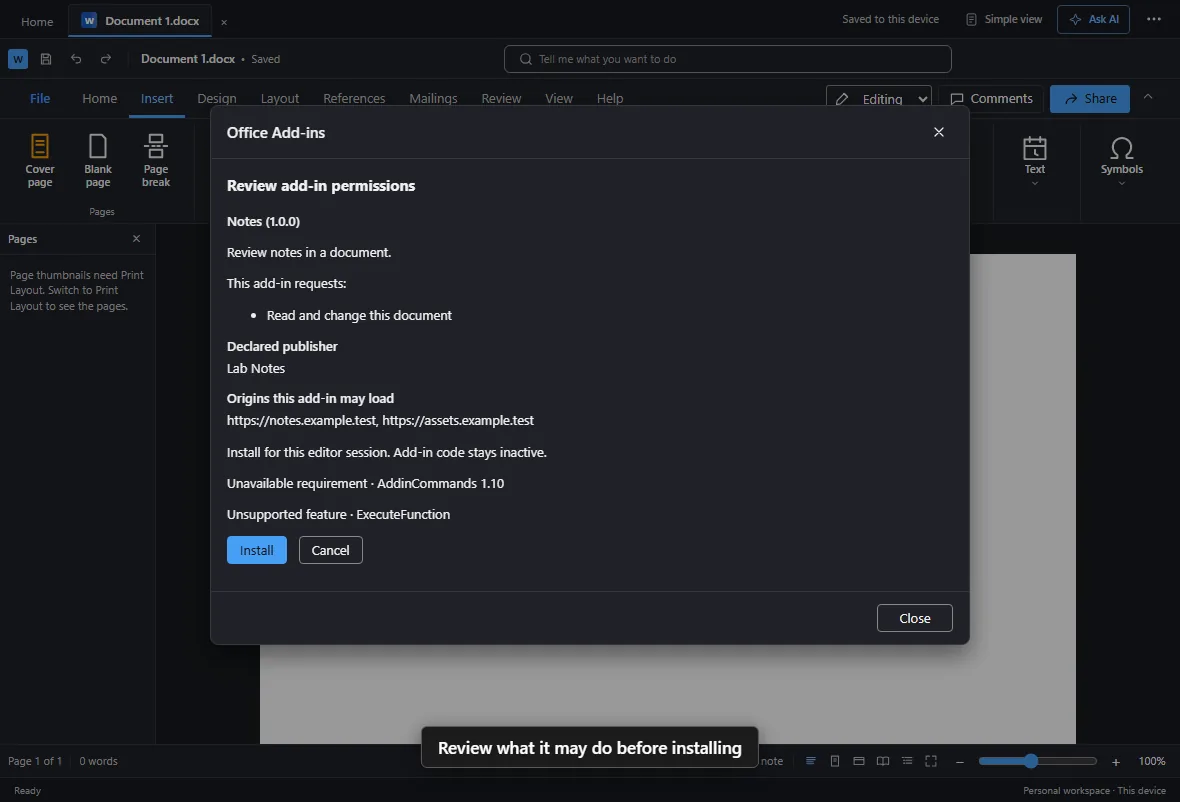
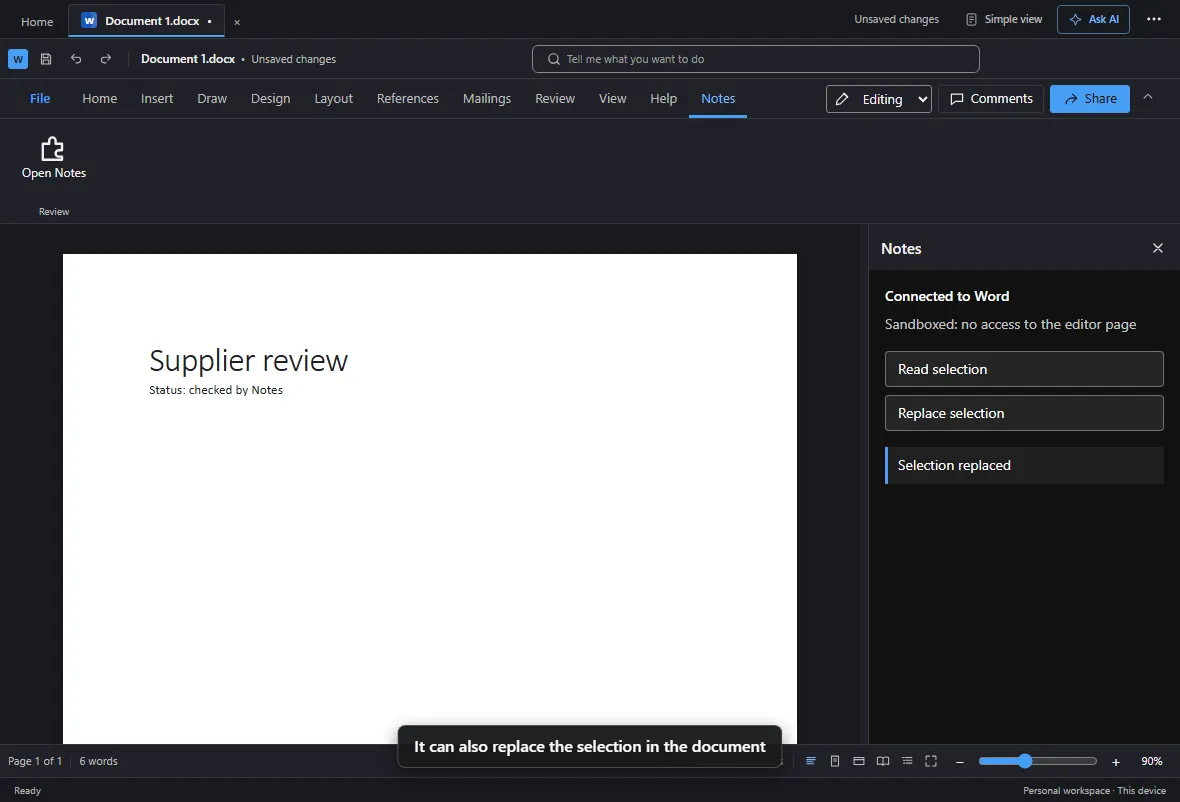
docs: describe add-in installs and task panes in the 2.5 post
The add-ins slice is on the branch, so the entry is written from the
code and its placeholder comment is gone: installing an XML manifest, a
unified manifest or a package after a consent step, installs kept for
each profile, task panes in sandboxed frames behind
setOfficeAddInRuntime and a frame-src policy, the compatible client
with its text selection calls, and Marketplace links resolved only by a
host's own resolver. "Not yet" says plainly that a page loading
Microsoft's hosted Office.js does not run. Security, the API list, the
open items and the change lists follow, with reproducible saves, the
dropped xml-crypto peer and Visio's arrowheads from the same merge.

The recording is new: a test add-in installed in the suite, then its
ribbon command opening a task pane that reads and replaces the
selection. The suite ships with the runtime off, so the recording turns
it on and its caption says so.

Two "Not yet" lines that were never gaps of ours are now plain notes:
PowerPoint's own handling of Ink Replay timing, and the desktop app
leaving the samples out to keep its installer small.

diff --git a/docs/releases/2.5.md b/docs/releases/2.5.md
@@ -56,7 +56,7 @@ Learn more about [the Word mail merge API](https://github.com/ChristopherVR/ooxm
 
 The **Design** tab applies a theme, its colours, fonts, effects and paragraph spacing to the whole document in one undo step, imports and exports `.thmx` themes, keeps custom colour and font schemes, and **Set as Default** stores your choice for new documents. The suite keeps that default per profile; turn off **Remember my Word design** in Settings > General to stop it. **Create a Style** and **Modify Style** edit paragraph, character, linked and table styles, and Word 16 opens the saved files without repair.
 
-![Word applies a theme, a colour scheme and paragraph spacing from the Design tab to the whole document](2.5/assets/word-design.gif)
+![Word applies the Berlin theme, the Green colour scheme and Relaxed paragraph spacing from the Design tab to the whole document](2.5/assets/word-design.gif)
 
 _A theme, a colour scheme and paragraph spacing applied to the whole document._
 
@@ -185,7 +185,7 @@ _Ink drawn, replayed and converted to a shape._
 
 Ink brushes are now written with their width in centimetres, so ink a deck saves keeps its colour and thickness in PowerPoint, Word and Excel.
 
-**Not yet:** PowerPoint desktop drops Ink Replay's per-point timing when it saves the file again.
+One thing to know about round trips: Microsoft PowerPoint does not keep Ink Replay's per-point timing when it saves a deck again. That is PowerPoint's own behaviour, so ink replayed here from such a file plays stroke by stroke.
 
 Learn more about [Ink to Math and privacy](https://github.com/ChristopherVR/ooxml/blob/main/PRIVACY.md#ink-to-math).
 
@@ -247,34 +247,35 @@ _From the gallery to the financial model, open in the suite._
 
 Opening a sample is a link, `?sample=<id>`, that you can use yourself: the suite fetches the manifest and that one file from its own site, checks the file's size and SHA-256 against the manifest, adds a copy to your library and opens it. Every sample is written by a script in the repository, so it can be rebuilt and reviewed as source.
 
-**Not yet:** The samples show the gaps too. A load notice lists what a file contains that its editor does not draw or edit yet, and the desktop app does not bundle the samples.
+The samples show the gaps too: a load notice lists what a file contains that its editor does not draw or edit yet. The desktop app leaves the samples out on purpose, so its installer does not grow by them.
 
 Learn more about [the sample files](https://github.com/ChristopherVR/ooxml/blob/main/samples/README.md).
 
 ### Add-ins
 
-<!-- TODO(add-ins): the wave 6 add-ins slice (manual install of AppSource manifests and sandboxed
-task panes) is not in this tree yet. When it lands, describe it here from the code, replace
-office-add-ins.gif with a recording of an installed add-in's task pane, and update "Not yet",
-"Security", "What is still open" and the migration guide's Store section. -->
+**Insert > Get Add-ins** opens one Office Add-ins dialog in Word, Excel, PowerPoint and Visio, so a host configures add-ins once. In Word, Excel and PowerPoint, **Upload My Add-in** installs an add-in-only XML manifest, a unified `manifest.json` or a `.zip` app package. The file is checked against size, compression and path limits, and the dialog shows the publisher, version, origins and permissions it declares before you consent. Nothing is fetched from the origins a manifest names while it is installed.
 
-**Insert > Get Add-ins** opens one Office Add-ins dialog in Word, Excel, PowerPoint and Visio, so a host configures add-ins once. My Add-ins lists what is installed, Admin Managed lists entries your host provides, and in Word, Excel and PowerPoint **Upload My Add-in** reads an XML manifest, a unified `manifest.json` or a `.zip` package, checks it against size, compression and path limits, and shows the permissions it requests before you install it for the session. Nothing is fetched from the origins a manifest names.
+![Word installs a local add-in from a manifest after a consent step, then its ribbon command opens a sandboxed task pane that reads and replaces the selected text](2.5/assets/office-add-ins.gif)
 
-![Word opens Get Add-ins, uploads a local XML manifest, reviews its permissions and installs it](2.5/assets/office-add-ins.gif)
+_A test add-in installed with consent, then running in a sandboxed task pane. The recording turns the runtime on; the suite ships with it off._
 
-_A local manifest uploaded, reviewed and installed._
+Installed add-ins stay. **My Add-ins** lists them, shows their details and removes them, and the suite keeps each manifest or package in a store that belongs to the profile, so an add-in's ribbon commands are back after a reload or a change of profile. Each editor checks the saved files again before it restores them. An application that embeds the editors gets session memory unless it passes a store of its own.
 
-The Store pivot appears only when your host enables a storefront: a handoff to Microsoft Marketplace or a catalogue of its own. Until then Get Add-ins opens on My Add-ins, and the editors make no request to a marketplace. A handoff opens only when the user clicks it, in a new tab with no opener and no referrer, and sends no document data.
+An installed add-in's task pane runs once your application turns the runtime on. `setOfficeAddInRuntime` names the publisher origins you approve and asserts that your page's Content Security Policy enforces `frame-src` for them; the add-in's ribbon command then opens its pane in a sandboxed frame beside the document. The pane talks to the editor through a compatible client, `connectOfficeAddIn`, which offers `Office.onReady`, the host name and the text selection calls `getSelectedDataAsync` and `setSelectedDataAsync`: Word reads and replaces the selected text, Excel one selected cell. Running add-ins is off by default.
 
 **addins.ts**
 
 ```ts
-import { setOfficeAddInCatalog, setOfficeAddInStorefront } from 'ooxml-ui';
+import { setOfficeAddInRuntime, setOfficeAddInStorefront } from 'ooxml-ui';
 
 const editor = document.querySelector('docx-editor')!;
 
-// Add-ins your application already implements, listed under Admin Managed.
-setOfficeAddInCatalog(editor, [{ id: 'notes', label: 'Team notes', install: () => openNotes() }]);
+// Run installed task panes from the origins you approve. Say frameSrcEnforced only once your
+// page's Content-Security-Policy frame-src admits these origins and no others.
+setOfficeAddInRuntime(editor, {
+	origins: ['https://addins.example.com'],
+	frameSrcEnforced: true,
+});
 
 // Opt in to the Store pivot. Leave this out to keep it hidden.
 setOfficeAddInStorefront(editor, { kind: 'microsoft' });
@@ -282,7 +283,9 @@ setOfficeAddInStorefront(editor, { kind: 'microsoft' });
 
 _The settings apply to one editor or to every editor inside a container._
 
-**Not yet:** Installing is not running. The Office.js runtime and manifest-defined ribbon commands are not implemented, so an installed add-in is listed with the requirements it cannot meet. Visio lists host-provided add-ins but cannot install local manifests.
+The Store pivot appears only when your host links a marketplace: a handoff to Microsoft Marketplace or a catalogue of its own. A host can also register a resolver, `setOfficeAddInMarketplaceResolver`, that turns a Marketplace link or asset id into a package through its own backend; the editors never fetch one themselves. A handoff opens only when the user clicks it, in a new tab with no opener and no referrer, and sends no document data.
+
+**Not yet:** An add-in whose page loads Microsoft's hosted Office.js does not run here: the bridge is the compatible client, with the Selection and TextCoercion 1.1 requirement sets only. Function commands, commands on the built-in tabs, a selection bridge for PowerPoint, content add-ins, identity and single sign-on are open, and Visio cannot install local manifests.
 
 Learn more about [the Office Add-ins plan](https://github.com/ChristopherVR/ooxml/blob/main/docs/office-addins-plan.md).
 
@@ -331,14 +334,14 @@ The Excel download figures are the suite's gzipped route sizes before and after 
 
 ## Security
 
-- **Add-in packages:** manifests and `.zip` packages are checked for size, compression ratio and paths before they are read, schema and asset URLs never cause a request, and installing needs consent.
+- **Add-ins:** manifests and `.zip` packages are checked for size, compression ratio and paths before they are read, schema and asset URLs never cause a request, and installing needs consent. A task pane runs only from an origin the host approved, in a sandboxed frame that is sent no referrer, and only once the host asserts its `frame-src` policy; the bridge passes bounded plain text of the selection when the manifest, the install review and the editor all allow it. Stored add-ins are capped at 16 MiB for each profile.
 - **Pictures and ink:** Visio admits SVG only through an allowlist without scripts, events or external references, EMF conversion is bounded, PowerPoint bounds InkML before decoding its traces, and ink pasted into Word is rebuilt from what ink may hold.
 - **Samples:** `?sample=<id>` can only select an entry of the site's own manifest, and a sample is opened only when its size and SHA-256 match.
 - **Online video:** Word embeds only `https` addresses on the hosts your application allows, and the editor never loads them.
 - **Themes:** a standalone `.thmx` theme is validated before it is imported, within XML stream limits.
 - **Workers:** the editors ignore worker messages from other origins, and Visio installs its message handlers only in worker scopes.
 - **Email merges:** a merge for email stays on the addressed recipient, so a `NEXT` field cannot send one person another person's data.
-- **Network by default:** `IMAGE()` fetches nothing unless the host supplies a fetcher, and the add-ins Store makes no request unless the host enables it.
+- **Network by default:** `IMAGE()` fetches nothing unless the host supplies a fetcher, and the add-ins Store, Marketplace resolution and task panes make no request unless the host enables them.
 
 The fixes that close a defect class add a case to the [security regression corpus](https://github.com/ChristopherVR/ooxml/blob/main/src/core/test-support/security-corpus/README.md).
 
@@ -353,7 +356,7 @@ Two new subpaths join `ooxml-core`, and the editors gain properties for the new 
 - **PowerPoint (`ooxml-core/pptx`, `ooxml-ui/pptx`):** `editNativeEffectTiming`, the picture edit patches, `createProgressiveSlidePreview` and `configurePptxDraw` for where pen presets are kept.
 - **Visio (`ooxml-core/visio`):** `loadVisioStencilEditor` and `inspectVisioPicture`.
 - **Ink and equations (`ooxml-core/drawingml`, `ooxml-core/math`, `ooxml-ui`):** `loadInkTools` now also loads the InkML part reader and writer Word, Excel and PowerPoint share, `loadEquationTools` loads linear format build-up and the equation galleries, and the `office-ui-ink-canvas` and `office-ui-ink-pens` elements are the Draw tab's canvas and pen strip. `hiddenTabs` accepts `draw` in Word and Excel.
-- **Shared (`ooxml-core/drawingml`, `ooxml-ui`):** the picture and shape style catalogues and theme gallery every product uses, and `setOfficeAddInCatalog` and `setOfficeAddInStorefront`.
+- **Shared (`ooxml-core/drawingml`, `ooxml-ui`):** the picture and shape style catalogues and theme gallery every product uses, and for add-ins `setOfficeAddInCatalog`, `setOfficeAddInStorefront`, `setOfficeAddInPreferences`, `setOfficeAddInMarketplaceResolver`, `setOfficeAddInRuntime` and the pane client `connectOfficeAddIn`.
 
 **image-provider.ts**
 
@@ -380,7 +383,7 @@ No export was renamed and no element, event or CSS token was removed. Node.js 22
 
 - **Excel string tables:** `ooxml-core/xlsx/ui` no longer exports the raw command string tables (`COMMAND_TABLES`, `commandStrings` and the ten `*_STRINGS` tables); a non-English dictionary loads on demand through `loadEditorStrings` ([guide](../migration-2.5.md#excel-command-string-tables-moved-behind-loadeditorstrings)).
 - **Word views:** `viewMode` and `onViewModeChange` carry six views instead of `'draft'` and `'print'` ([guide](../migration-2.5.md#word-view-modes-have-six-values)).
-- **The add-ins Store:** Get Add-ins opens on My Add-ins until your host enables a storefront ([guide](../migration-2.5.md#the-add-ins-store-is-off-until-the-host-enables-it)).
+- **Add-ins:** Get Add-ins opens on My Add-ins until your host links a marketplace, installed add-ins are remembered for each profile in the suite, and task panes stay off until you turn the runtime on ([guide](../migration-2.5.md#the-add-ins-store-is-off-until-the-host-enables-it)).
 - **Ribbon layouts:** PowerPoint Home's Arrange and Comments, Excel's Insert, PivotTable and Sparkline commands and Word's Insert order moved to match Microsoft 365, and Word and Excel show a Draw tab; hidden IDs keep working ([guide](../migration-2.5.md#ribbon-layouts-follow-microsoft-365)).
 - **Ink brush widths:** saved ink states its brush width in centimetres; code that reads those parts itself must honour the unit ([guide](../migration-2.5.md#ink-brush-widths-are-written-in-centimetres)).
 - **On-demand files:** deploy every file of the package build, since more code now loads from your origin on first use ([guide](../migration-2.5.md#more-code-loads-on-first-use)).
@@ -391,7 +394,7 @@ The [migration guide](../migration-2.5.md) gives the before and after for each, 
 
 2.5 does not reach full Office parity, and the [parity checklist](https://github.com/ChristopherVR/ooxml/blob/main/docs/parity-checklist.md) is the one list of what is missing. The largest open items in the areas this release touched:
 
-- **Add-ins:** the Office.js runtime, manifest-defined ribbon commands and Marketplace installation; Visio cannot install local manifests.
+- **Add-ins:** Microsoft's hosted Office.js (the bridge is a compatible client), requirement sets beyond Selection and TextCoercion 1.1, function commands, commands on the built-in tabs, a selection bridge for PowerPoint, content add-ins, identity and single sign-on; Visio cannot install local manifests.
 - **Word:** Ink Equation, Ruler and Ink to Math on the Draw tab, signing a signature line, most of Picture Format, freeform Draw Table and the structural Eraser, mail merge fields that span paragraphs, and Read Mode note navigation.
 - **Excel:** a Chart Format tab (a pane today), Ruler and Ink to Math, collaboration for PivotTables, in-cell pictures and ink, and Picture Style 3-D effects in the grid.
 - **PowerPoint:** editing before a progressively opened deck finishes parsing, Picture Layout, and Start changes that split a complex click group.
@@ -412,14 +415,15 @@ The lists below group the user-visible changes since `ooxml-core` and `ooxml-ui`
 - **Excel workbooks (`ooxml-core/xlsx`):** PivotCharts bound to their PivotTables, recommended PivotTables, PivotTable style options and layouts, rich values and in-cell pictures, linked data type cards, `IMAGE()` through a host provider, shapes, text boxes, legacy notes, headers and footers, Scale to Fit, Print Titles, sheet backgrounds, drawing arrangement, and Excel ink read and saved.
 - **PowerPoint decks (`ooxml-core/pptx`):** native animation timing edits and the Animation Painter's template, picture edits (crop, replace, reset, border, background removal), SmartArt formatting reset and progressive slide previews.
 - **Visio drawings (`ooxml-core/visio`):** stencil authoring and `.vssx` saving, SVG, BMP, TIFF and EMF pictures, connector copies, drops and reroutes, and equation previews.
-- **Add-ins (`ooxml-core/automation/add-ins`):** validation of XML manifests, unified manifests and packages for Word, Excel and PowerPoint.
+- **Add-ins (`ooxml-core/automation/add-ins`):** validation of XML manifests, unified manifests and packages for Word, Excel and PowerPoint, with the publisher, version, origins and permissions a consent step shows.
 - **Shared drawing (`ooxml-core/drawingml`):** the picture and shape style catalogues, the theme gallery with measured palettes, shared ink geometry and timing, and one InkML model, part reader and writer for Word, Excel and PowerPoint.
 - **Equations (`ooxml-core/math`):** linear format build-up from Unicode and LaTeX input, math AutoCorrect, the structure and symbol galleries and Word's built-in equations (`loadEquationTools`), Excel equations through the Word equation editor, and `MAX_LATEX_LENGTH`.
 
 ### Changed
 
 - **Excel interface languages:** French, German, Spanish and Simplified Chinese dictionaries load on demand; `loadEditorStrings(locale)` loads one, and `STRINGS[locale]` reads English until it has.
-- **Saving:** PowerPoint and the other writers keep compressed media and unchanged zip entries as they are, and write new parts at deflate level 6.
+- **Saving:** PowerPoint and the other writers keep compressed media and unchanged zip entries as they are, and write new parts at deflate level 6. Every writer can take one clock, id source and ZIP date (`ReproducibleSaveOptions`), so a save can be reproduced.
+- **Dependencies:** `ooxml-core` no longer lists `xml-crypto` as an optional peer; signature verification canonicalises XML itself.
 - **Ink brushes:** saved ink states its brush width and height in centimetres; see [the migration guide](../migration-2.5.md#ink-brush-widths-are-written-in-centimetres).
 - **Office Math:** the writer puts property elements before content, drops empty property lists and writes the degree a hidden radical degree requires, so Word opens saved equations without repair.
 
@@ -443,7 +447,7 @@ The lists below group the user-visible changes since `ooxml-core` and `ooxml-ui`
 
 ### New
 
-- **Office Add-ins dialog:** one dialog for Word, Excel, PowerPoint and Visio, with My Add-ins, Admin Managed, Upload My Add-in, a consent step, and `setOfficeAddInCatalog` and `setOfficeAddInStorefront`.
+- **Office Add-ins:** one dialog for Word, Excel, PowerPoint and Visio, with My Add-ins, Admin Managed, Upload My Add-in and a consent step; installs kept in profile preferences; installed commands on the product ribbons; task panes in sandboxed frames behind `setOfficeAddInRuntime`, with a text selection bridge in Word and Excel; and a Marketplace resolver a host can register. The Store is hidden until a host links a marketplace.
 - **Ink:** the shared ink canvas (`office-ui-ink-canvas`), the pen strip (`office-ui-ink-pens`) and Ink Replay, used by the Word, Excel and PowerPoint Draw tabs.
 - **Word:** the Mailings, Design, References, Draw and Equation tabs, Read Mode, Outline, Web Layout and Focus, Quick Parts, the Building Blocks Organizer, Signature Line, Online Video, header and footer designs, the Table Design and Layout tabs, the Arrange group and Selection Pane, and content control tags in the editing view.
 - **Excel:** Insert and Page Layout authoring, the Draw tab, the PivotTable Analyze and Design tabs, Picture Format and Shape Format, Place in Cell, notes navigation, the comments pane and Equation.
@@ -499,7 +503,7 @@ The lists below group the user-visible changes since `ooxml-core` and `ooxml-ui`
 <summary><strong>Visio</strong> · <code>visio-*-viewer</code> packages</summary>
 
 - **New:** New Stencil, Add Selected Shape, Edit Stencil and Save Stencil, SVG, BMP, TIFF and EMF pictures, connector copies, drops and reroutes, equation previews from Word and Get Add-ins, in all six bindings.
-- **Fixed:** the Shapes pane and built-in stencils are translated, stencil dialogs restore focus and explain disabled commands, and native context menus are kept for unknown masters.
+- **Fixed:** the Shapes pane and built-in stencils are translated, stencil dialogs restore focus and explain disabled commands, native context menus are kept for unknown masters, and every built-in arrowhead style from 1 to 45 is drawn.
 
 </details>
 
